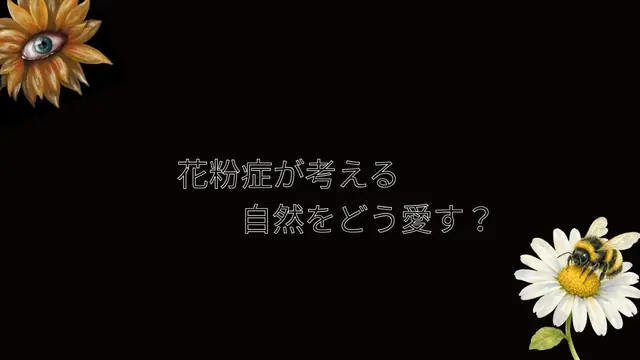
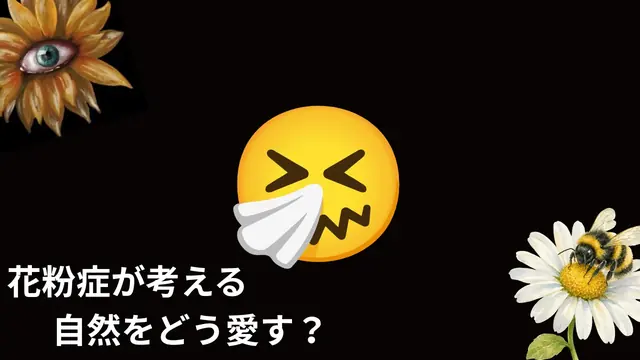
差し替えた画像が公開サイトに反映されるよう修正
- サムネイル2件の差し替えを反映
- 同期の変更判定を更新日時から画像の中身（ハッシュ）に変更
- 画像URLに ?v=ハッシュ を付けてブラウザキャッシュを回避
- programs.json は毎回更新を確認して読み込む

diff --git a/src/js/common.js b/src/js/common.js
@@ -24,7 +24,8 @@ let cache;
  * 戻り値: { classes: [{ id, label }], programs: [...] }
  */
 export function loadData() {
-  cache ??= fetch(asset(site.data))
+  // no-cache：毎回サーバーに更新の有無を確かめる（変わっていなければキャッシュを使うので軽い）
+  cache ??= fetch(asset(site.data), { cache: 'no-cache' })
     .then((res) => {
       if (!res.ok) throw new Error(`${res.status} ${res.statusText}`);
       return res.json();

diff --git a/index.html b/index.html
@@ -7,7 +7,6 @@
 <link rel="preconnect" href="https://fonts.gstatic.com" crossorigin>
 <link href="https://fonts.googleapis.com/css2?family=Noto+Sans+JP:wght@400;500;700&display=swap" rel="stylesheet">
 <title>プログラム一覧</title>
-<link rel="preload" href="data/programs.json" as="fetch" crossorigin>
 <link rel="stylesheet" href="./src/styles/base.css">
 <link rel="stylesheet" href="./src/styles/list.css">
 <script type="module" src="./src/js/list.js"></script>
